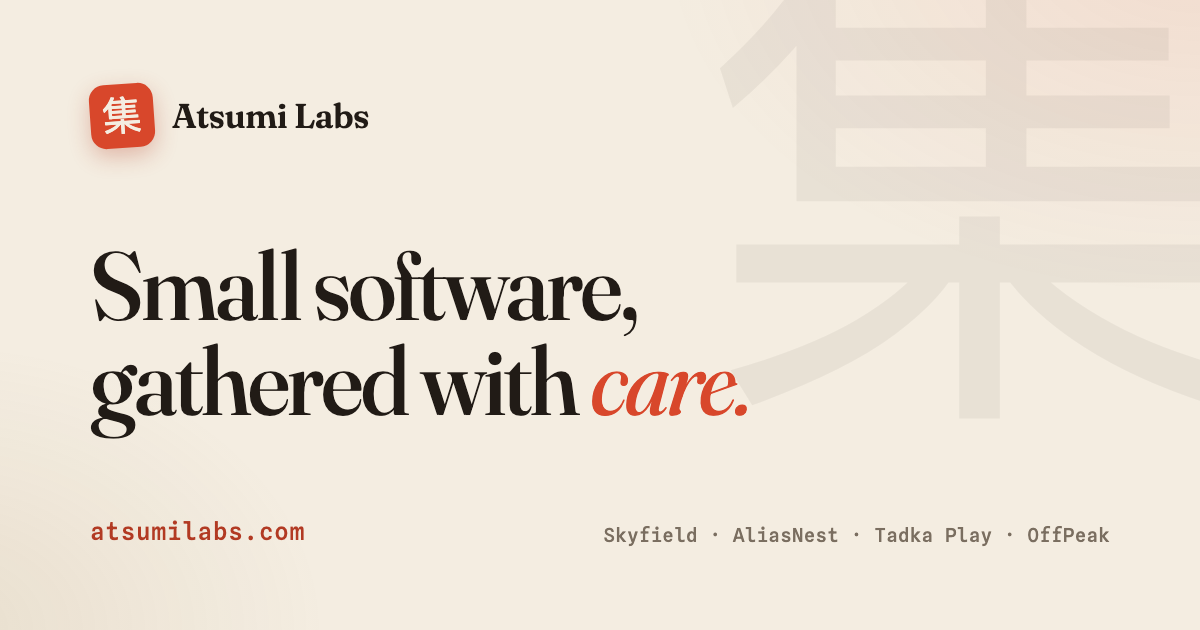
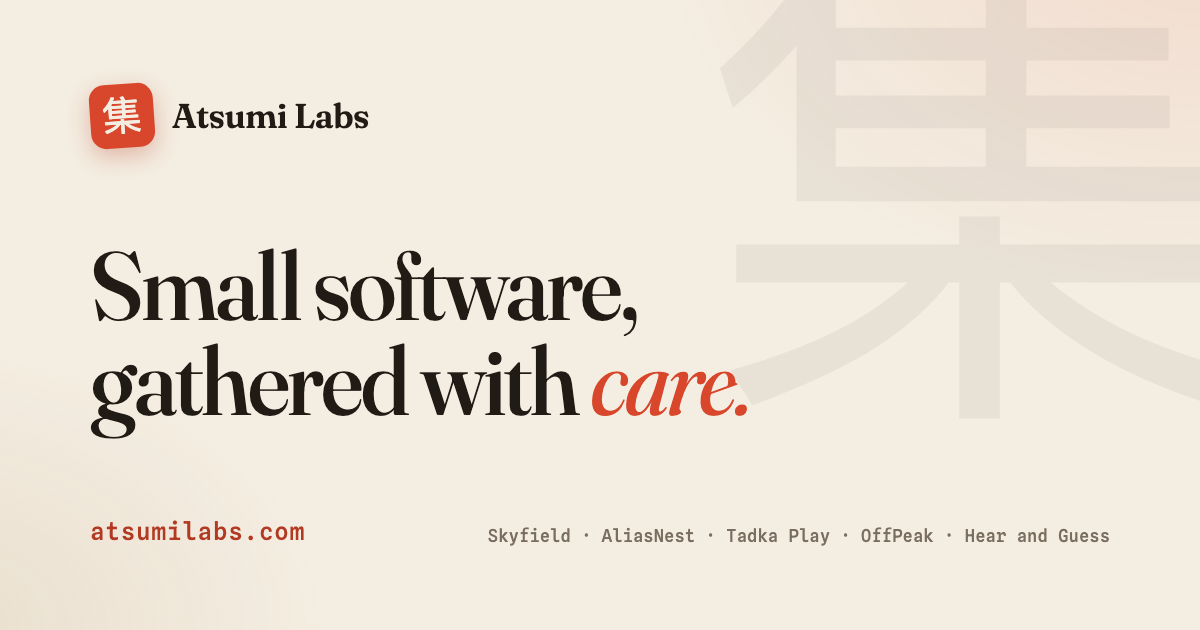
Add Hear and Guess (SongGame) to the portfolio
No. 05 card linking to hearandguess.com. Notes the Spotify host constraint
(anyone can play; hosting needs an approved Spotify Premium account until
Spotify grants full access) with an 'ask us to host' mailto. Updated OG image
+ og:description.

Changed region(s): [[0.4008, 0.8143, 0.925, 0.8746]]

diff --git a/index.html b/index.html
@@ -23,7 +23,7 @@
   <meta property="og:type" content="website" />
   <meta property="og:site_name" content="Atsumi Labs" />
   <meta property="og:title" content="Atsumi Labs — small software, gathered with care" />
-  <meta property="og:description" content="An independent studio gathering small, genuinely useful consumer apps under one roof — Skyfield, AliasNest, Tadka Play, OffPeak." />
+  <meta property="og:description" content="An independent studio gathering small, genuinely useful consumer apps under one roof — Skyfield, AliasNest, Tadka Play, OffPeak, Hear and Guess." />
   <meta property="og:url" content="https://atsumilabs.com/" />
   <meta property="og:image" content="https://atsumilabs.com/assets/og.png" />
   <meta property="og:image:width" content="1200" />
@@ -177,6 +177,28 @@
             <li>Live + day-ahead</li><li>Price alerts</li><li>7 U.S. markets</li><li>Web · iOS · Android</li>
           </ul>
           <a class="card-link" href="offpeak.html">Explore OffPeak →</a>
+        </li>
+
+        <!-- Hear and Guess (SongGame) -->
+        <li class="card reveal" style="--d:480ms">
+          <span class="card-kanji" aria-hidden="true">聴</span>
+          <div class="card-top">
+            <span class="num">No. 05</span>
+            <span class="status status-live">Live</span>
+          </div>
+          <h3>Hear and Guess</h3>
+          <p class="card-tag">Name that tune — a music quiz party game</p>
+          <p class="card-desc">
+            Put any Spotify playlist on the big screen and let the room race to name the
+            track. Everyone buzzes in on their phones — server-side timing keeps it fair,
+            faster answers score more, and a QR code gets players in fast. Anyone can play;
+            hosting needs a Spotify Premium account we approve, since Spotify caps new apps
+            until it grants full access — <a href="mailto:[email redacted]?subject=Hear%20and%20Guess%20host%20access" target="_blank" rel="noopener">ask us to host</a>.
+          </p>
+          <ul class="chips">
+            <li>Spotify playlists</li><li>Real-time buzzers</li><li>QR join</li><li>Free to play</li>
+          </ul>
+          <a class="card-link" href="https://hearandguess.com" target="_blank" rel="noopener">hearandguess.com →</a>
         </li>
       </ol>
     </section>

diff --git a/styles.css b/styles.css
@@ -205,6 +205,8 @@ a { color: inherit; text-decoration: none; }
 .card h3 { font-family: var(--serif); font-weight: 600; font-size: 1.75rem; line-height: 1; letter-spacing: -0.01em; }
 .card-tag { font-weight: 600; color: var(--shu-deep); font-size: 0.95rem; margin: 0.35rem 0 0.9rem; }
 .card-desc { color: var(--ink-2); font-size: 0.96rem; position: relative; z-index: 1; }
+.card-desc a { color: var(--shu-deep); border-bottom: 1px solid rgba(178,58,35,0.35); }
+.card-desc a:hover { color: var(--shu); }
 
 .chips { list-style: none; display: flex; flex-wrap: wrap; gap: 0.45rem; margin: 1.2rem 0 1.5rem; }
 .chips li {